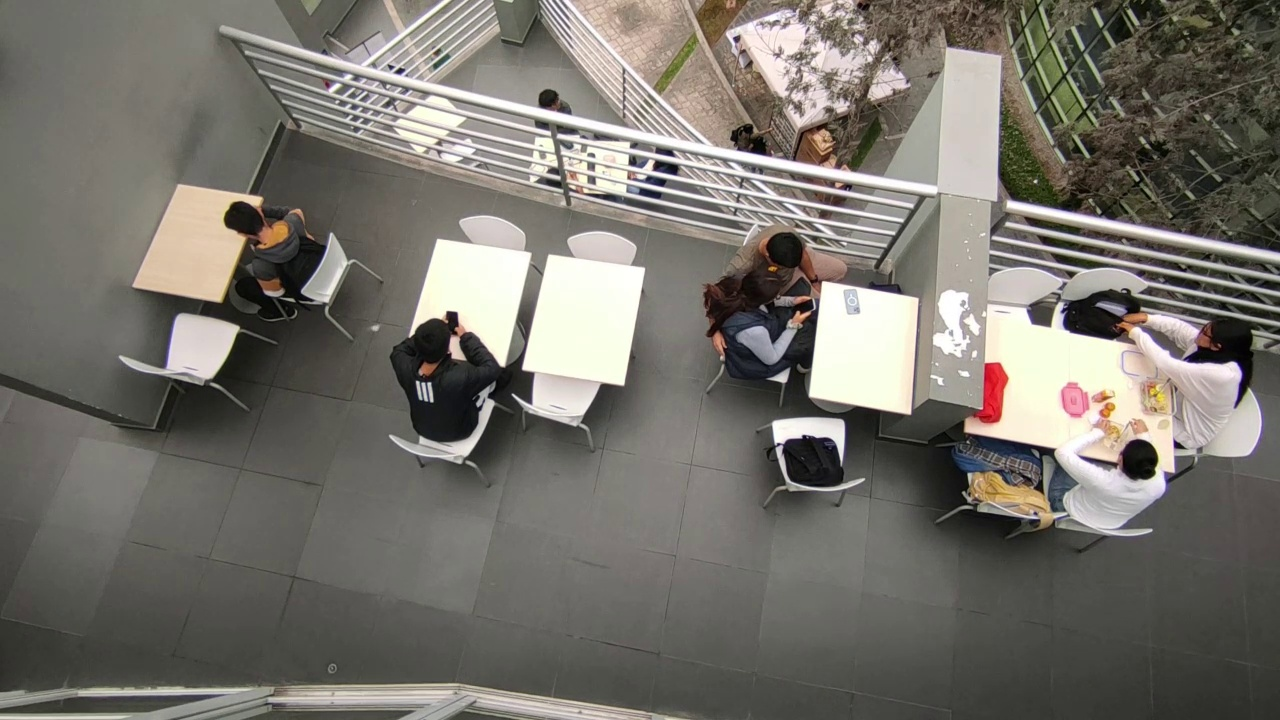
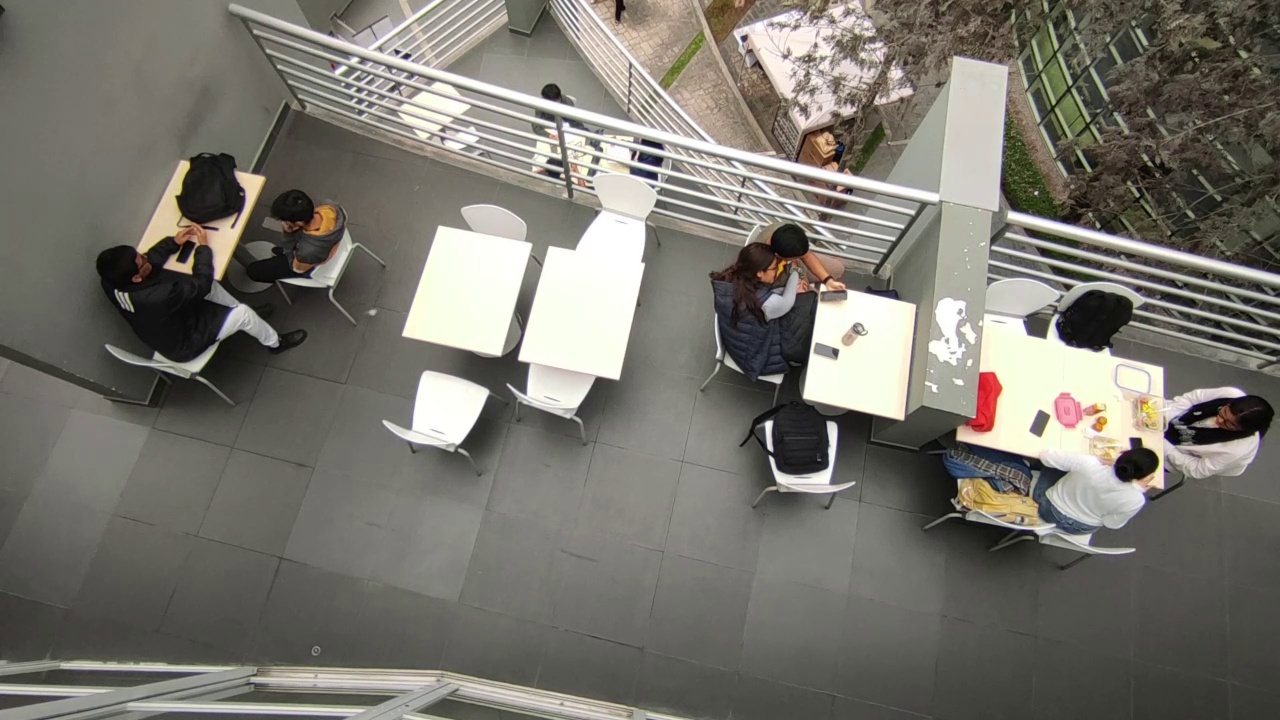
actualizacion recuadros

diff --git a/main.py b/main.py
@@ -3,6 +3,7 @@ import pickle
 import numpy as np
 
 seat = []
+
 with open('seats.pkl', 'rb') as file:
     seat = pickle.load(file)
 
@@ -13,11 +14,11 @@ with open('tables.pkl', 'rb') as file:
 video = cv2.VideoCapture('prueba.mp4')
 occ = [1] * len(seat)
 
-table = [(0,1), (2,3,4,5), (6,7,8),(9,10,11,13)]
+table = [(0,1), (2,3,4,5), (6,7,8), (9,10,11,13)]
 table_len = len(table)
 table_occ = ['Free'] * table_len
 
-px = 3200
+px = 3600
 while True:
     check, img = video.read()
     imgBN = cv2.cvtColor(img, cv2.COLOR_BGR2GRAY)
@@ -30,7 +31,7 @@ while True:
         espacio = imgDil[y:y+h, x:x+w]
         count = cv2.countNonZero(espacio)
         # cv2.putText(img, str(seat.index(rec))+ ', ' + str(occ[seat.index(rec)]) + ', ' + str(count), (x,y+h-10), cv2.FONT_HERSHEY_SIMPLEX, 0.5, (0,255,0), 1)
-        cv2.putText(img, 'Silla ' + str(seat.index(rec)+1), (x,y+h-10), cv2.FONT_HERSHEY_SIMPLEX, 0.5, (0,255,0), 1)
+        # cv2.putText(img, 'Seat ' + str(seat.index(rec)+1), (x+10,y+h-10), cv2.FONT_HERSHEY_SIMPLEX, 0.62, (0,0,0), 2)
         cv2.rectangle(img, (x,y), (x+w, y+h), (0,0,255), 2)
         occ[seat.index(rec)] = 1
         if count < px:
@@ -45,9 +46,9 @@ while True:
                 zeros += 1
         if zeros == len(table[tables.index(rec)]): table_occ[tables.index(rec)] = 'Free'
         else: table_occ[tables.index(rec)] = 'Full'
-        cv2.putText(img, 'Mesa '+ str(tables.index(rec)+1) + ': ' + str(table_occ[tables.index(rec)]), (200 * tables.index(rec), 80), cv2.FONT_HERSHEY_SIMPLEX, 0.5, (255,255,0), 1)
+        cv2.putText(img, 'Table '+ str(tables.index(rec)+1) + ': ' + str(table_occ[tables.index(rec)]), (300 * tables.index(rec) + 60, 680), cv2.FONT_HERSHEY_SIMPLEX, 1.2, (255,255,255), 3)
         # cv2.putText(img, str(tables.index(rec))+ ', ' + str(occ[tables.index(rec)]) + ', ' + str(count), (x,y+20), cv2.FONT_HERSHEY_SIMPLEX, 0.5, (0,255,0), 1)
-        cv2.putText(img, 'Mesa ' + str(tables.index(rec)+1), (x,y), cv2.FONT_HERSHEY_SIMPLEX, 0.5, (0,255,0), 1)
+        cv2.putText(img, 'Table ' + str(tables.index(rec)+1), (x,y), cv2.FONT_HERSHEY_SIMPLEX, 0.9, (0,0,0), 2)
         # cv2.rectangle(img, (x,y), (x+w, y+h), (0,0,255), 2)
         # if table_occ[tables.index(rec)] == 'Free':
             # cv2.rectangle(img, (x,y), (x+w, y+h), (0,255,0), 2)

diff --git a/first_frame.py b/first_frame.py
@@ -18,7 +18,7 @@ def get_frame(video_path, frame_number):
 video_path = "prueba.mp4"
 
 # Obtiene el frame 1500
-frame = get_frame(video_path, 1500)
+frame = get_frame(video_path, 9000)
 
 # Muestra el frame
 cv2.imshow("table.jpg", frame)
